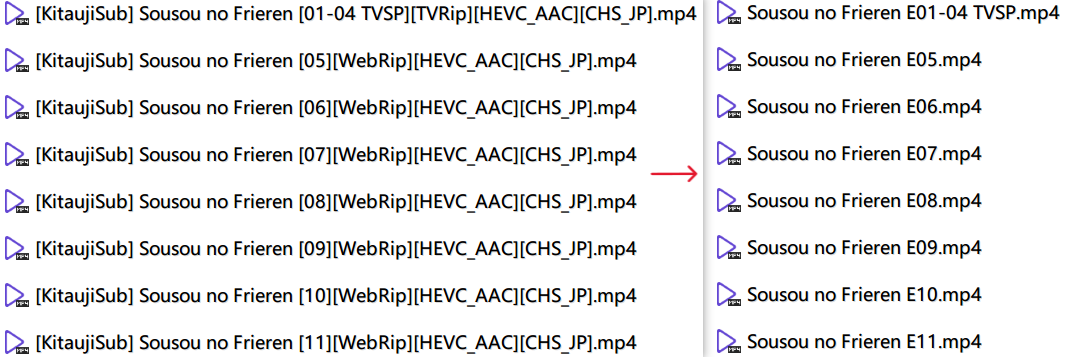
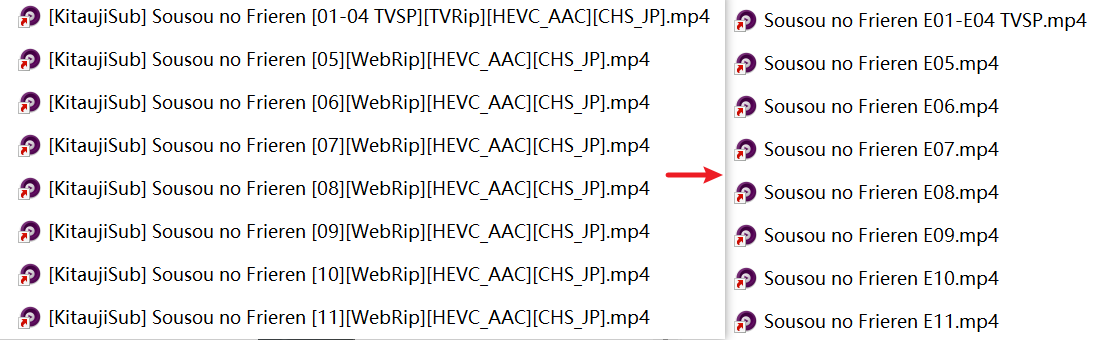
new README and import hash in tree.py modified:   Dockerfile modified:   README.md modified:   READMECN.md modified:   image/function.png modified:   image/function2.png modified:   main.py modified:   tray.py modified:   tree.py modified:   watcher.py

diff --git a/tree.py b/tree.py
@@ -2,6 +2,7 @@ import json
 import os
 from pathlib import Path
 import re
+import xxhash
 from datetime import datetime,timedelta
 from conf import config
 
@@ -96,22 +97,25 @@ def tree():
     new_tree = build_tree(last_tree)
 
     new_deleted_tree = extract_items(new_tree, last_tree)
-    added_part = extract_items(last_deleted_tree, new_deleted_tree)
-    deleted_part = extract_items(new_deleted_tree, last_deleted_tree)
-    modified_part = combine_items(added_part, deleted_part)
-    for key in new_deleted_tree:
-        if key in modified_part:
-            if len(new_deleted_tree[key]) == 3:
-                new_deleted_tree[key][2] = datetime.now().isoformat()
-            else:
-                new_deleted_tree[key].append(datetime.now().isoformat())
-        new_deleted_tree[key][2] = last_deleted_tree[key][2]
-        if key in new_tree:
-            if datetime.now() - datetime.fromisoformat(new_deleted_tree[key][2]) >= timedelta(days=7):
-                del new_deleted_tree[key]
+    for key in list(new_deleted_tree.keys()):
+        if key not in list(last_deleted_tree.keys()):
+            timestamp = datetime.now().isoformat()
         else:
-            if datetime.now() - datetime.fromisoformat(new_deleted_tree[key][2]) >= timedelta(days=30):
-                del new_deleted_tree[key]
+            new_hash = xxhash.xxh3_64(str(new_deleted_tree[key][1])).hexdigest()
+            last_hash = xxhash.xxh3_64(str(last_deleted_tree[key][1])).hexdigest()
+            if new_hash != last_hash:
+                timestamp = datetime.now().isoformat()
+            else:
+                timestamp = last_deleted_tree[key][2]
+        if len(new_deleted_tree[key]) == 3:
+            new_deleted_tree[key][2] = timestamp
+        else:
+            new_deleted_tree[key].append(timestamp)
+        time_diff = datetime.now() - datetime.fromisoformat(new_deleted_tree[key][2])
+        if key in new_tree and time_diff >= timedelta(days=7):
+            del new_deleted_tree[key]
+        elif key not in new_tree and time_diff >= timedelta(days=30):
+            del new_deleted_tree[key]
     save_tree(new_deleted_tree, DELETED_TREE_PATH)
 
     save_tree(new_tree, TREE_PATH)

diff --git a/tray.py b/tray.py
@@ -12,11 +12,11 @@ def exit_app():
 def create_tray_icon():
     image = Image.open("./lib/icon.ico")
     menu = (
-        pystray.MenuItem("手动重命名", lambda: rename(True,read_tree())),
-        pystray.MenuItem("还原所有文件", lambda: rename(False,read_tree())),
-        pystray.MenuItem("点击打开配置文件", lambda: open_app()),
-        pystray.MenuItem("退出", lambda: exit_app())
+        pystray.MenuItem("Rename", lambda: rename(True,read_tree())),
+        pystray.MenuItem("Recover", lambda: rename(False,read_tree())),
+        pystray.MenuItem("Click to open config file", lambda: open_app()),
+        pystray.MenuItem("Exit", lambda: exit_app())
     )
     tray_icon = pystray.Icon("app_name", image, "aninamer", menu)
-    tray_icon.tooltip = "应用程序"
+    tray_icon.tooltip = "Application"
     tray_icon.run()

diff --git a/watcher.py b/watcher.py
@@ -9,7 +9,12 @@ class FileHandler(FileSystemEventHandler):
     def on_created(self, event):
         tree()
         rename(True, read_tree())
-
+    def on_deleted(self, event):
+        tree()
+        rename(True, read_tree())
+    def on_modified(self, event):
+        tree()
+        rename(True, read_tree())
 def watch():
     watch_file = Observer()
     input_paths = config["paths"]

diff --git a/main.py b/main.py
@@ -1,11 +1,13 @@
 import os
 from conf import ensure_config_exists
-from tree import tree
+from rename import rename
+from tree import tree, read_tree
 from watcher import watch
 
 if __name__ == '__main__':
     ensure_config_exists()
     tree()
+    rename(True, read_tree())
     if os.name=='nt':
         import threading
         from tray import create_tray_icon

diff --git a/README.md b/README.md
@@ -1,35 +1,73 @@
-
-
 # Aninamer
 
-![aniamer](./icon.png)
+<center>
+<img src="./image/icon.svg" width="512" alt="Aninamer" />
+</center>
 
-### An automatic renaming software that works with RSS animation subscriptions and scraping software such as emby.
+### An automatic renaming software that can optimize the collaboration with RSS anime subscriptions and scraping software such as emby.
 
-<a href="READMECN.md">中文README文件
+<a href="READMECN.md">Chinese README file
 
-## Function
+## Features
 
 ![function](./image/function.png)
 
 ![function](./image/function2.png)
 
-## How to use
+## How to Use
 
-1. Download and unzip latest release to an folder you want(Well,I'll pack it to exe later).
+### Windows
 
-2. Note that you **must ensure that the directory does not contain** `[`,`]`,`<`, `>` ,`-`. Better make sure the programs you subscribe to have a basic classification. It's better to have a name and season number like this.
+I do not recommend using the Docker version on Windows due to poor support for watchdog in Docker for Windows.
 
-![basic classification](./image/basic_classification.png)
+1. Download and unzip the latest version of the Release to the folder you want.
 
-3. Type the directory you want to detect in the configuration file, such as `D:\download\anime` in the picture above. You can directly edit the files in the conf folder. If the software is running normally, you can right-click the system tray icon to open the configuration file.
+2. It is best to ensure that the series you subscribe to has a basic classification, including names and seasons like these. (This is not related to Aninamer's operation but is for convenience in scraping Aninamer to obtain series metadata and season metadata.)
 
-4. Run the software. This should now work for most filenames and you can refresh your scraping software to get the metadata for each episode.
+   ![basic classification](./image/basic_classification.png)
 
-5. If you want, you can also add a shortcut to the `startup` folder to let the software run automatically when booting. Put `win`+`R` and type `shell:startup` to open your `startup` folder.
+3. Run Aninamer, which will generate some configuration files. Aninamer by default monitors a video folder under the exe directory. Please enter the directory you want to monitor in the configuration file, such as `D:\download\anime` shown above. You can directly edit the `path.json` in the conf folder, or right-click the tray icon to open the configuration file after opening Aninamer. Remember to restart the program after modification.
 
-6. If you get bad results, it may be that the original name does not match the program well. You can try to use your wisdom to add special items in the configuration file (the modification will take effect immediately) and change the file back to its original name so that the program can be renamed to solve the problem. Usually this is because the main title is in brackets. The former can be solved by replacing all the characters before the main title with "" in the configuration file. You can right-click the system tray icon to open the configuration file, or directly edit the file in the `conf` folder.  If you want to modify some file manually, make sure that the modified file name does not contain `[`,`]`, and your changes will not be overwritten by the software.
+4. If there is no problem with the directory, it should have been renamed now. You can refresh your scraper to obtain metadata for each episode.
 
-## working for：
+5. In the tray icon, you can manually rename or recover the original files.
 
- <a href="Task.md">here
+6. The conf folder may have three files. `path.json` is responsible for reading the monitored directories, which can be multiple directories separated by commas `,` and enclosed in quotes `""`. `directory_tree.json`is the tree structure information of the monitored folder, where all files and directories have a boolean value that controls whether renaming occurs. You can manually change it to`true`or`false`. For files, it also includes two filenames, the original and the renamed ones. Generally, you do not need to modify this, but if needed, you can directly change it. `deleted_tree.json`contains information from`directory_tree.json` that was lost due to directory changes or file movements. This data is automatically deleted based on its importance (retained for 7 or 30 days). Manual modification or deletion **is not recommended** unless you recognize the irreversible data loss and insist on deleting it.
+
+7. If you wish, you can also add a shortcut to the `startup` folder to have Aninamer run automatically at startup. Press `win`+`R`, enter `shell:startup`, and open the `startup` folder.
+
+### Docker
+
+1. It is best to ensure that the series you subscribe to has a basic classification, including names and seasons like these. (This is not related to Aninamer's operation but is for convenience in scraping software to obtain series metadata and season metadata.)
+
+   ![basic classification](./image/basic_classification.png)
+
+2. Pull mistarille/aninamer:latest, map your video folder to `/app/video`, and to avoid configuration file loss after deleting the container, map a conf folder to `/app/conf`, and run the container.
+
+```bash
+   docker run --name aninamer --restart=always -v /path/to/your/video/folder:/app/video -v  /path/to/your/conf/folder:/app/conf mistarille/aninamer:latest
+```
+
+3. If your directory is not mapped to `/app/video` or if you have mapped multiple directories to the container, you need to manually enter the directories to be monitored in the configuration file. You can directly edit the `path.json` in the conf folder.
+
+4. If there is no problem with the directory, it should have been renamed now. You can refresh your scraper to obtain metadata for each episode.
+
+5. You can execute commands in the docker terminal
+
+   ```bash
+   aninamer rename
+   ```
+
+   or
+
+   ```bash
+   aninamer recover
+   ```
+
+   to manually rename or recover.
+
+6. The conf folder may have three files. `path.json` is responsible for reading the monitored directories, which can be multiple directories separated by commas `,` and enclosed in quotes `""`. `directory_tree.json`is the tree structure information of the monitored folder, where all files and directories have a boolean value that controls whether renaming occurs. You can manually change it to`true`or`false`. For files, it also includes two filenames, the original and the renamed ones. Generally, you do not need to modify this, but if needed, you can directly change it. `deleted_tree.json`contains information from`directory_tree.json` that was lost due to directory changes or file movements. This data is automatically deleted based on its importance (retained for 7 or 30 days). Manual modification or deletion **is not recommended** unless you recognize the irreversible data loss and insist on deleting it.
+
+## Uninstall
+
+Just delete it. If you want to restore the original filenames, remember to perform a recovery before uninstalling.

diff --git a/READMECN.md b/READMECN.md
@@ -1,6 +1,10 @@
 # Aninamer
-![Aninamer](./icon.png)
-### 一个自动重命名软件，可以与RSS动画订阅和如emby等刮削软件配合使用。
+
+<center>
+<img src="./image/icon.svg" width = "512" width = "512"  alt="Aninamer" />
+</center>
+
+### 一个自动重命名软件，可以优化与 RSS 动画订阅和如 emby 等刮削软件的配合。
 
 <a href="README.md">English README file
 
@@ -12,20 +16,58 @@
 
 ## 如何使用
 
-1. 下载并解压最新版本的Release到你想要的文件夹（好吧，我以后会把它打包成exe）。
+### Windows
 
-2. 注意，你**必须确保目录中不包含**`[`,`]`,`<`, `>` ,`-`。最好确保你订阅的节目有一个基本的分类。最好有一个像这样的名称和季数。
+因为 Docker for Windows 对 watchdog 的支持不好，我并不推荐在 Windows 使用 docker 版本。
+
+1. 下载并解压最新版本的 Release 到你想要的文件夹
+
+2. 最好确保你订阅的剧集有一个基本的分类。包含像这样的名称和季数。（与 Aninamer 运行无关，只是为了方便刮削 Aninamer 获取剧集元数据与季元数据）
 
    ![basic classification](./image/basic_classification.png)
 
-3. 在配置文件里输入你要检测的目录，比如上图的 `D:\download\anime`。你可以直接编辑conf文件夹下的文件，打开软件之后，可以右键系统托盘图标来打开配置文件。
+3. 运行 Aninamer，Aninamer 会生成一些配置文件。Aninamer 默认监控 exe 目录下的一个 video 文件夹，请在配置文件里输入你要检测的目录，比如上图的 `D:\download\anime`。你可以直接编辑 conf 文件夹下的 `path.json`，或者在打开 Aninamer 之后，可以右键托盘图标来打开配置文件。修改完毕后记得重启程序。
 
-4. 运行软件。这样应该就可以适用于大多数文件名，你可以刷新你的刮削软件，获取每一集的元数据。
+4. 如果目录没有问题，现在应已经重命名完毕了，你可以刷新你的刮削 Aninamer，获取每一集的元数据。
 
-5. 如果你愿意，你也可以在`startup`文件夹中添加一个快捷方式，让软件在开机时自动运行。按`win`+`R`，输入`shell:startup`，打开`startup`文件夹。
+5. 托盘图标中可以手动重命名Rename或是恢复Recover原有文件
 
-6. 如果重命名没得到预期结果，可能是原来的名字和程序相性不好。你可以尝试动动脑筋在配置文件中添加特殊项(修改后立即生效)并把文件改回原名让程序重新重命名来解决问题。通常这是因为主标题被放在了[]中，需要你在配置文件的Special项里删除掉所有标题前面的字符，表示为把这些字符替换为`''`。如果需要手动修改，确保修改后的文件名不包含`[`,`]`,你的修改就不会被软件覆盖掉了。
+6. conf 文件夹中可能会出现三个文件，`path.json` 负责读取监测目录，可以是多个目录，加上引号`""`后用逗号`,`隔开。`directory_tree.json` 是监控文件夹的树状结构信息，所有文件和目录都包含一个布尔值，负责控制文件或目录下是否进行重命名，可以手动修改为`true`或者`false`，对于文件还包含两个文件名，第一个是原始文件名，第二个是重命名后的文件名，一般情况下不需要修改，如果有需要可以直接更改。`deleted_tree.json` 是过去由于监控目录更改或是文件变动而丢失的`directory_tree.json` 中的信息，根据信息重要程度自动删除（保留 7 天或 30 天），**不建议**手动修改或删除，除非你认识到这会带来不可逆的数据损失并且执意删除。
 
-##　开发任务
+7. 如果你愿意，你也可以在`startup`文件夹中添加一个快捷方式，让 Aninamer 在开机时自动运行。按`win`+`R`，输入`shell:startup`，打开`startup`文件夹。
 
-<a href="任务.md">任务列表
+### Docker
+
+1. 最好确保你订阅的剧集有一个基本的分类。包含像这样的名称和季数。（与 Aninamer 运行无关，只是为了方便刮削软件获取剧集元数据与季元数据）
+
+   ![basic classification](./image/basic_classification.png)
+
+2. 拉取 mistarille/aninamer:latest，映射你的视频文件夹到`/app/video`，为了避免删除容器后配置文件失效，映射一个 conf 文件夹到`/app/conf`，运行容器。
+
+```bash
+   docker run --name aninamer --restart=always -v /path/to/your/video/folder:/app/video -v  /path/to/your/conf/folder:/app/conf mistarille/aninamer:latest
+```
+
+3. 如果你的目录没有映射到`/app/video`，或者你映射了多个目录到容器中，你需要手动在配置文件里输入你要检测的目录。你可以直接编辑 conf 文件夹下的 `path.json`。
+
+4. 如果目录没有问题，现在应已经重命名完毕了，你可以刷新你的刮削 Aninamer，获取每一集的元数据。
+
+5. 可以在docker终端中执行命令
+
+   ```bash
+   aninamer rename
+   ```
+
+    或者
+
+   ```bash
+   aninamer recover
+   ```
+
+   来进行手动重命名或恢复
+
+6. conf 文件夹中可能会出现三个文件，`path.json` 负责读取监测目录，可以是多个目录，加上引号`""`后用逗号`,`隔开。`directory_tree.json` 是监控文件夹的树状结构信息，所有文件和目录都包含一个布尔值，负责控制文件或目录下是否进行重命名，可以手动修改为`true`或者`false`，对于文件还包含两个文件名，第一个是原始文件名，第二个是重命名后的文件名，一般情况下不需要修改，如果有需要可以直接更改。`deleted_tree.json` 是过去由于监控目录更改或是文件变动而丢失的`directory_tree.json` 中的信息，根据信息重要程度自动删除（保留 7 天或 30 天），**不建议**手动修改或删除，除非你认识到这会带来不可逆的数据损失并且执意删除。
+
+## 卸载
+
+直接删除即可，如果希望恢复原来的文件名，记得卸载前进行一次恢复
